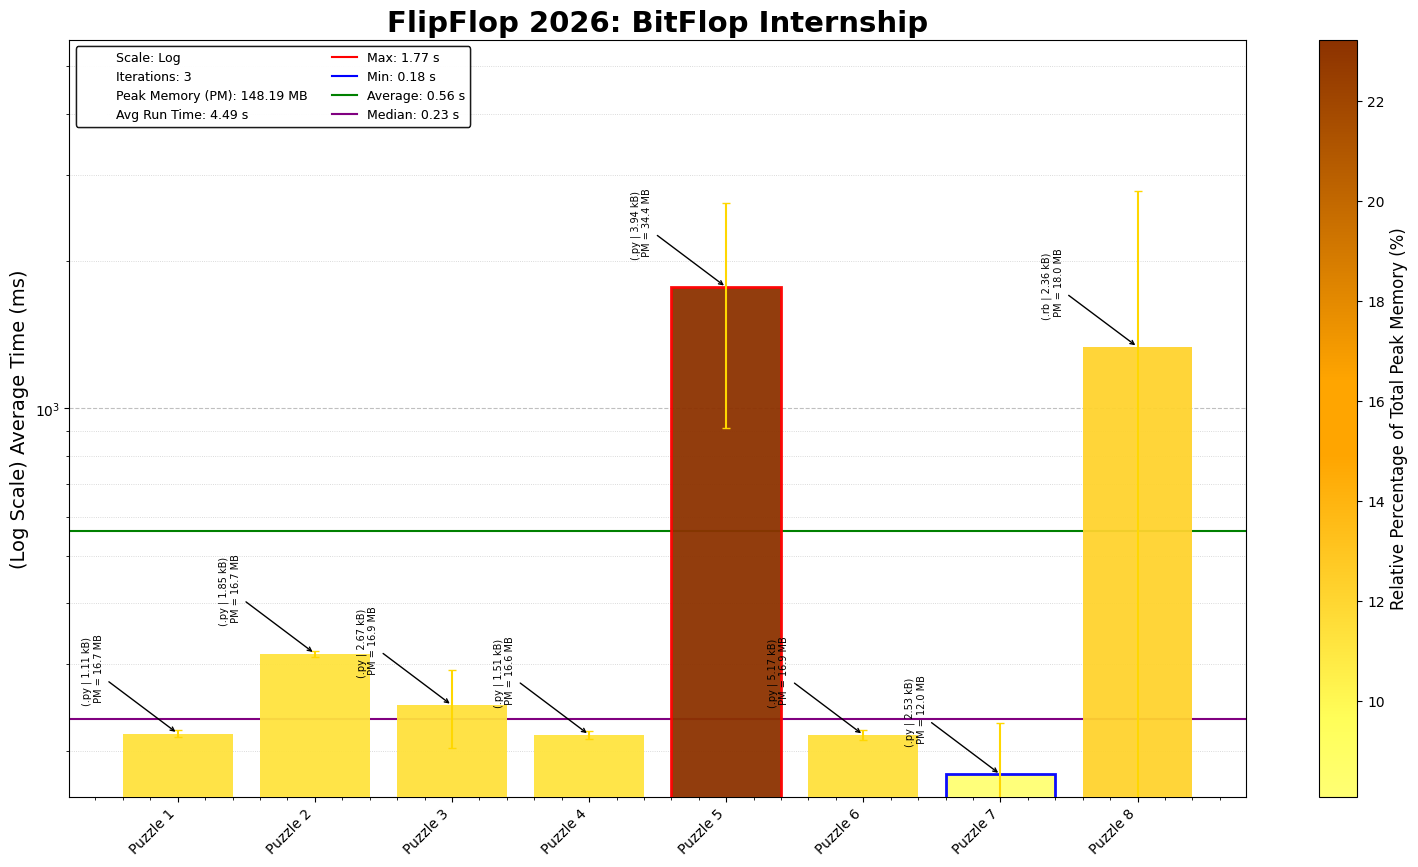
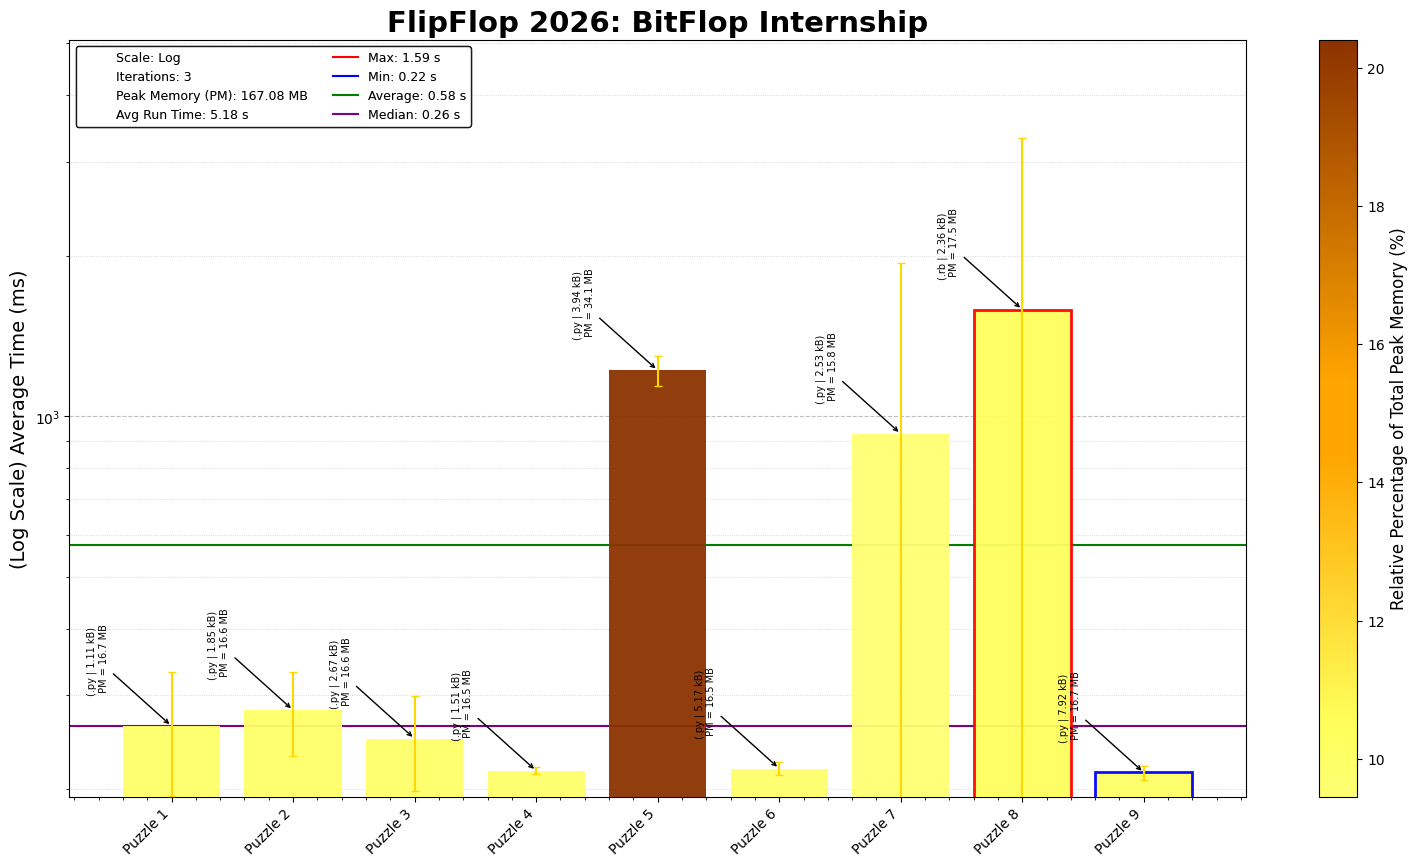
FlipFLop 2026, Puzzle 09(speed up part 3)

diff --git a/flipflop/2026/Puzzle_09/flipflop26_09.py b/flipflop/2026/Puzzle_09/flipflop26_09.py
@@ -1,0 +1,199 @@
+"""FlipFlop 2026: BitFlop Internship - Puzzle 9
+Solution Started: July 26, 2026
+Puzzle Link: https://flipflop.slome.org/2026/9
+Solution by: Abbas Moosajee
+Brief: [Thinking With Mazes]"""
+
+#!/usr/bin/env python3
+from pathlib import Path
+from collections import defaultdict, deque
+# Load input file
+input_file = "puzzle_09_input.txt"
+input_path = Path(__file__).parent / input_file
+
+with input_path.open("r", encoding="utf-8") as f:
+    data = f.read().splitlines()
+
+data1 = ['###########', '#S#.#...#.#', '#.#.#.###.#', '#.#.......#', '#.#.#.#####', '#...#.#..E#', '###.#.#.###', '#...#.#...#', '#.###.#.#.#', '#.#.....#.#', '###########']
+data2 = ['#######', '#S....#', '#####.#', '#E#.#.#', '#.###.#', '#.....#', '#######']
+
+class MazeSolver:
+    MOVES = {">": (0, 1), "<":(0,-1), "v":(1,0), "^": (-1,0)}
+
+    def __init__(self, inp_grid):
+        grid_dict = defaultdict(str)
+        for row_no, row_data in enumerate(inp_grid):
+            for col_no, char in enumerate(row_data):
+                coord = (row_no, col_no)
+                grid_dict[coord] = char
+                if char == "S":
+                    self.start = coord
+                elif char == "E":
+                    self.goal = coord
+        self.grid_dict = grid_dict
+
+    def print_grid(self, path = []):
+        grid_dict = self.grid_dict
+        max_row = max(r for r, c in grid_dict)
+        max_col = max(c for r, c in grid_dict)
+        print_data = []
+        for row_no in range(max_row + 1):
+            row_data = ""
+            for col_no in range(max_col + 1):
+                coord = (row_no, col_no)
+                if coord in path:
+                    use_char = "0"
+                else:
+                    use_char = grid_dict[coord]
+                row_data += use_char
+            print_data.append(row_data)
+        print("\n".join(print_data))
+
+    def shortest_path(self):
+        visited = set(self.start)
+        queue = deque([(self.start, 0)])
+        while queue:
+            pos, steps = queue.popleft()
+            if pos == self.goal:
+                return steps # assumes first path is shortest path
+            for dr, dc in self.MOVES.values():
+                npos = pos[0] + dr, pos[1] + dc
+                if (npos in self.grid_dict
+                        and self.grid_dict[npos] != "#"
+                        and npos not in visited):
+                    queue.append((npos, steps + 1))
+                    visited.add(npos)
+        return float("inf")
+
+    def teleportation_path(self):
+        visited = {self.start}
+        queue = deque([(self.start, 0)])
+        while queue:
+            pos, steps = queue.popleft()
+            if pos == self.goal:
+                return steps  # BFS guarantees this is shortest
+
+            for dr, dc in self.MOVES.values():
+                # --- Option 1: walk one step ---
+                walk_pos = (pos[0] + dr, pos[1] + dc)
+                if (walk_pos in self.grid_dict
+                        and self.grid_dict[walk_pos] != "#"
+                        and walk_pos not in visited):
+                    visited.add(walk_pos)
+                    queue.append((walk_pos, steps + 1))
+
+                # --- Option 2: teleport to end of corridor ---
+                cur = pos
+                while True:
+                    npos = (cur[0] + dr, cur[1] + dc)
+                    if npos not in self.grid_dict or self.grid_dict[npos] == "#":
+                        break
+                    cur = npos
+                if cur != pos and cur not in visited:
+                    visited.add(cur)
+                    queue.append((cur, steps + 1))
+
+        return float("inf")
+
+    def double_portal_teleportation(self):
+        visited = {self.start}
+        portals = {"o": {0: (0,0),  1: (0,0)}, "b": {0: (0,0),  1: (0,0)}}
+        queue = deque([(self.start, 0, portals)])
+        while queue:
+            pos, steps, portal = queue.popleft()
+            if pos == self.goal:
+                return steps  # BFS guarantees this is shortest
+
+            for dr, dc in self.MOVES.values():
+                # --- Option 1: walk one step ---
+                walk_pos = (pos[0] + dr, pos[1] + dc)
+                if (walk_pos in self.grid_dict
+                        and self.grid_dict[walk_pos] != "#"
+                        and walk_pos not in visited):
+                    visited.add(walk_pos)
+                    queue.append((walk_pos, steps + 1, portal))
+
+                # --- Option 2: teleport to end of corridor ---
+                cur = pos
+                while True:
+                    npos = (cur[0] + dr, cur[1] + dc)
+                    if npos not in self.grid_dict or self.grid_dict[npos] == "#":
+                        break
+                    cur = npos
+                if cur != pos and cur not in visited:
+                    visited.add(cur)
+                    queue.append((cur, steps + 1, portal))
+
+        return float("inf")
+
+    def double_portal_teleportation(self):
+        # portal = (open_tile, wall_tile) or None
+        start_state = (self.start, None, None)
+        visited = {start_state}
+        queue = deque([(self.start, 0, None, None)])
+        count = 0
+        while queue:
+            pos, steps, orange, blue = queue.popleft()
+            count += 1
+            if count % 50000 == 0:
+                print(count, steps)
+            if pos == self.goal:
+                return steps  # BFS guarantees this is shortest
+
+            for dr, dc in self.MOVES.values():
+                npos = (pos[0] + dr, pos[1] + dc)
+
+                # --- Walk ---
+                if npos in self.grid_dict and self.grid_dict[npos] != "#":
+                    key = (npos, orange, blue)
+                    if key not in visited:
+                        visited.add(key)
+                        queue.append((npos, steps + 1, orange, blue))
+                else:
+                    # walking "into a wall" - only valid if that wall holds a portal
+                    exit_pos = None
+                    if orange is not None and orange[1] == npos:
+                        exit_pos = blue[0] if blue is not None else None
+                    elif blue is not None and blue[1] == npos:
+                        exit_pos = orange[0] if orange is not None else None
+
+                    if exit_pos is not None:
+                        key = (exit_pos, orange, blue)
+                        if key not in visited:
+                            visited.add(key)
+                            queue.append((exit_pos, steps + 1, orange, blue))
+
+                # --- Shoot a portal in this direction (slide to end of corridor) ---
+                cur = pos
+                while True:
+                    probe = (cur[0] + dr, cur[1] + dc)
+                    if probe not in self.grid_dict or self.grid_dict[probe] == "#":
+                        break
+                    cur = probe
+                wall_tile = (cur[0] + dr, cur[1] + dc)
+
+                # only a real interior wall can hold a portal, not the map edge
+                if wall_tile in self.grid_dict and self.grid_dict[wall_tile] == "#":
+                    new_portal = (cur, wall_tile)
+
+                    # shoot orange
+                    key_o = (pos, new_portal, blue)
+                    if key_o not in visited:
+                        visited.add(key_o)
+                        queue.append((pos, steps + 1, new_portal, blue))
+
+                    # shoot blue
+                    key_b = (pos, orange, new_portal)
+                    if key_b not in visited:
+                        visited.add(key_b)
+                        queue.append((pos, steps + 1, orange, new_portal))
+
+        return float("inf")
+
+maze = MazeSolver(data)
+print("FlipFlop 2026, Puzzle 09")
+print("Part 1:", maze.shortest_path())
+print("Part 2:", maze.teleportation_path())
+# print("Part 3:", maze.double_portal_teleportation())
+
+print("Part 3:", "SOLVED, NEED TO IMPROVE SPEED")
